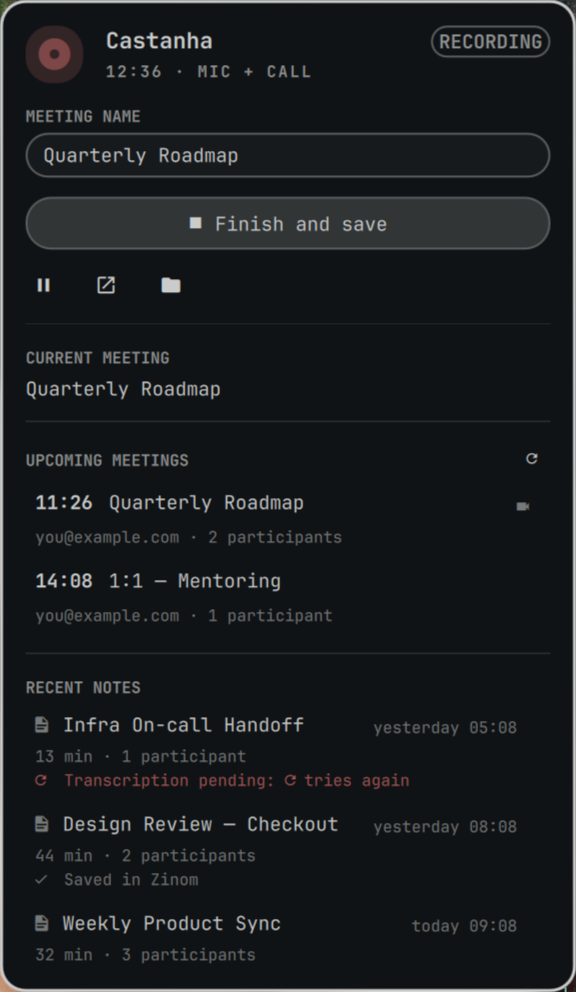
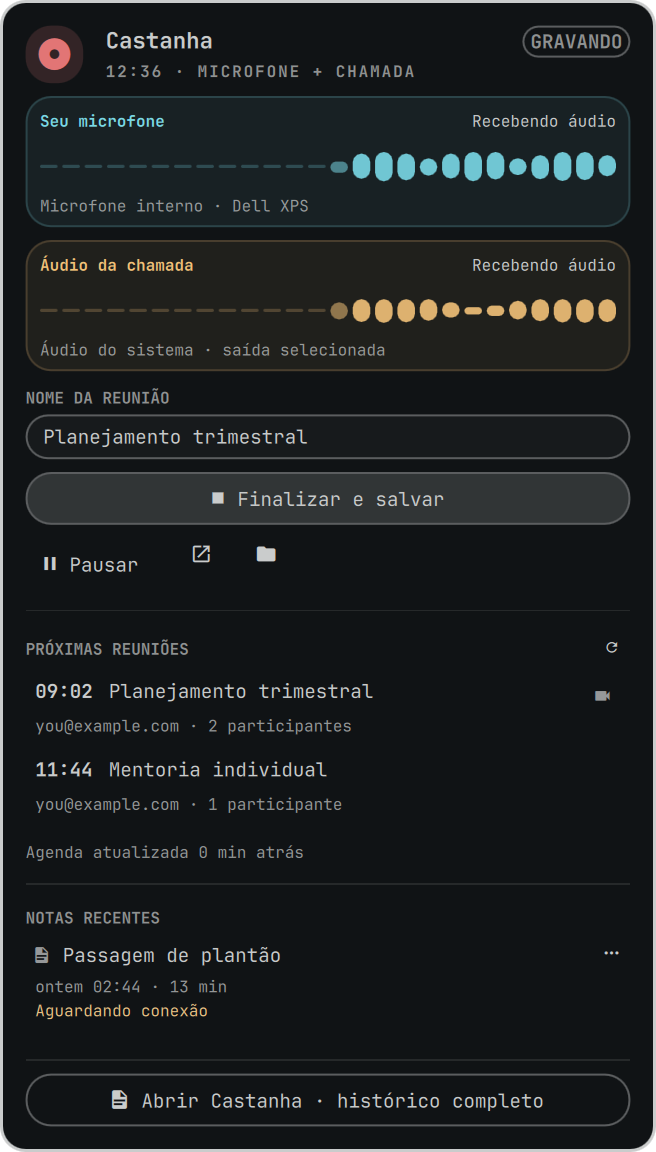
docs: illustrate the new recording panel and meeting library

diff --git a/README.pt-BR.md b/README.pt-BR.md
@@ -30,6 +30,8 @@ entra na chamada — o áudio é capturado na sua própria máquina.
 - Trechos com timestamps verificados abrem o ponto correspondente do áudio. Reuniões antigas sem essa informação continuam legíveis, sem tempos ou participantes inventados.
 - Áudio, transcrição, resumo e entrega ao Zinom têm estados separados. Apagar áudios exige confirmação e preserva as notas.
 
+![Biblioteca de reuniões, com dados fictícios](docs/images/library.png)
+
 Para abrir a biblioteca por um atalho: `omarchy-shell castanha-view library`.
 
 ## Comece aqui: sua primeira gravação em 3 minutos
